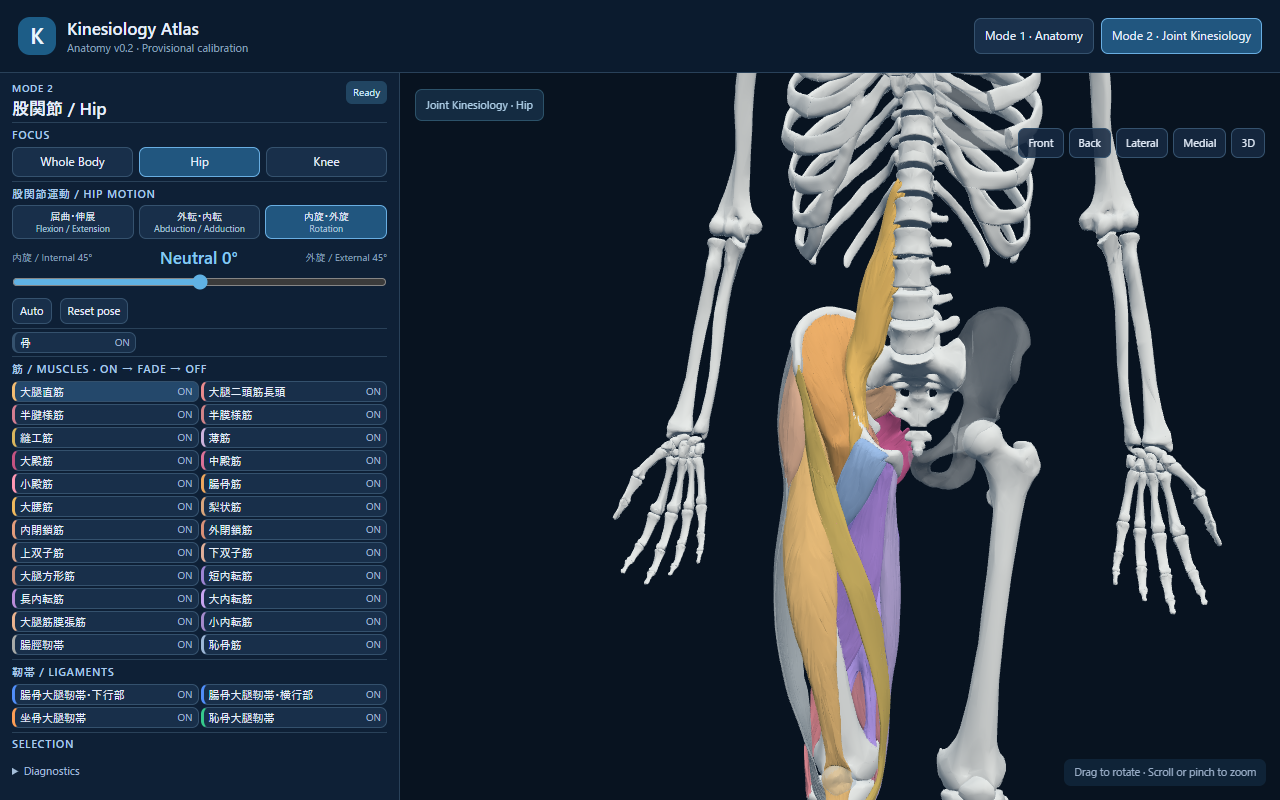
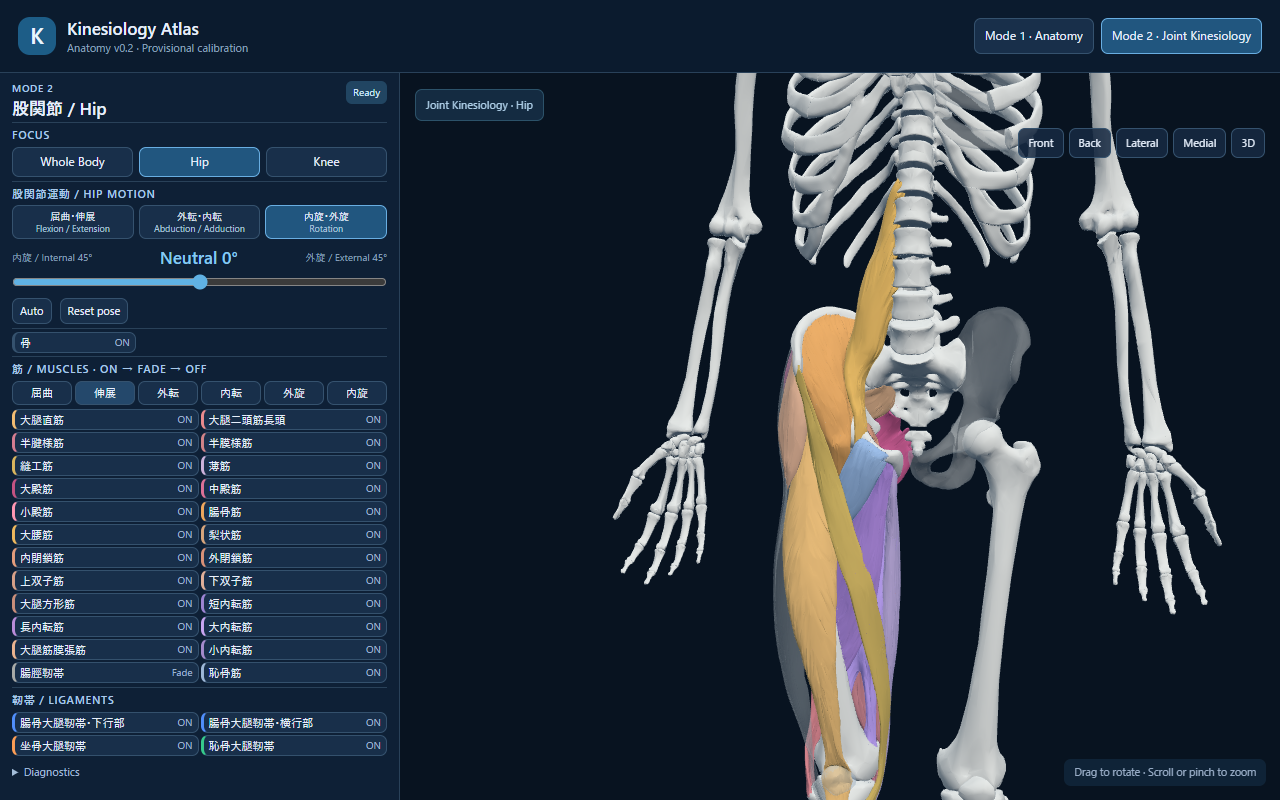
Correct muscle belly routing and restore ITB and action groups

Changed region(s): [[0.0, 0.4688, 0.3125, 0.9688], [0.5938, 0.4375, 0.7188, 1.0]]

diff --git a/src/tissue-follow.js b/src/tissue-follow.js
@@ -4,6 +4,9 @@ import {Vector3,Quaternion,Matrix4} from 'three';
 // It is a visual follower, not validated footprints, muscle length or strain.
 function tree(points,depth=0){if(!points.length)return null;const axis=depth%3;points.sort((a,b)=>a[axis]-b[axis]);const mid=points.length>>1;return {p:points[mid],axis,left:tree(points.slice(0,mid),depth+1),right:tree(points.slice(mid+1),depth+1)};}
 function distance2(node,p,best=Infinity){if(!node)return best;const d=p[node.axis]-node.p[node.axis],v=node.p;best=Math.min(best,(p[0]-v[0])**2+(p[1]-v[1])**2+(p[2]-v[2])**2);best=distance2(d<0?node.left:node.right,p,best);if(d*d<best)best=distance2(d<0?node.right:node.left,p,best);return best;}
+const clamp=x=>Math.max(0,Math.min(1,x));
+function closest(node,p,best={p:null,d2:Infinity}){if(!node)return best;const d2=p.reduce((s,v,i)=>s+(v-node.p[i])**2,0);if(d2<best.d2)best={p:node.p,d2};const delta=p[node.axis]-node.p[node.axis];best=closest(delta<0?node.left:node.right,p,best);if(delta*delta<best.d2)best=closest(delta<0?node.right:node.left,p,best);return best;}
+function smoothWeights(g,weights){const idx=g.index;if(!idx)return weights;let w=weights;for(let pass=0;pass<2;pass++){const sums=new Float32Array(w.length),counts=new Uint32Array(w.length);for(let k=0;k<idx.count;k+=3){const a=idx.getX(k),b=idx.getX(k+1),c=idx.getX(k+2);for(const [i,j,l] of [[a,b,c],[b,a,c],[c,a,b]]){sums[i]+=w[j]+w[l];counts[i]+=2;}}w=Float32Array.from(w,(v,i)=>counts[i]?.65*v+.35*sums[i]/counts[i]:v);}return w;}
 const smooth=x=>{const t=Math.max(0,Math.min(1,x));return t*t*(3-2*t);};
 export class TissueFollower{
  constructor(){this.entries=[];this.version=0;this.hip=new Quaternion();this.knee=new Quaternion();this.lastUpdate=-Infinity;this.translation=new Vector3();this.patellaRotation=new Quaternion();this.patellaTranslation=new Vector3();}
@@ -11,7 +14,7 @@ export class TissueFollower{
  prepare({tissues,getMeshes,hipCenter,kneeCenter}){
   this.h=hipCenter.clone();this.k=kneeCenter.clone();const v=new Vector3();
   const samples=name=>{const points=[];for(const mesh of getMeshes(name)){mesh.updateWorldMatrix(true,false);const a=mesh.geometry.attributes.position,step=Math.max(1,Math.floor(a.count/2500));for(let i=0;i<a.count;i+=step){v.fromBufferAttribute(a,i).applyMatrix4(mesh.matrixWorld);points.push(v.toArray());}}if(!points.length)throw Error('Missing binding bone '+name);return tree(points);};
-  const pelvis=samples('Hip bone.r'),femur=samples('Femur.r'),tibia=samples('Tibia.r');
+  const pelvis=samples('Hip bone.r'),femur=samples('Femur.r');
   for(const [name,,kind,joints] of tissues){if(kind!=='muscle'&&!(kind==='ligament'&&joints==='hip'))continue;
    for(const mesh of getMeshes(name)){
     mesh.geometry=mesh.geometry.clone();mesh.updateWorldMatrix(true,false);
@@ -19,23 +22,37 @@ export class TissueFollower{
     let min=Infinity,max=-Infinity;
     for(let i=0;i<a.count;i++){v.fromBufferAttribute(a,i).applyMatrix4(matrix);world.set(v.toArray(),i*3);min=Math.min(min,v.y);max=Math.max(max,v.y);}
     for(let i=0;i<a.count;i++){
-     const p=[world[3*i],world[3*i+1],world[3*i+2]],epsilon=1e-10;
-     const wp=joints==='knee'?0:1/(distance2(pelvis,p)+epsilon);
-     const wf=1/(distance2(femur,p)+epsilon),wt=joints==='hip'?0:1/(distance2(tibia,p)+epsilon),total=wp+wf+wt;
-     weights[2*i]=(wf+wt)/total;weights[2*i+1]=wt/total;
+     const p=[world[3*i],world[3*i+1],world[3*i+2]];
+     const dp=Math.sqrt(distance2(pelvis,p)),df=Math.sqrt(distance2(femur,p));
+     // Exact legacy Hip proximity field; do not distribute hip rotation along
+     // the entire length of a biarticular muscle (which makes a large arc).
+     weights[2*i]=joints==='knee'?1:smooth(dp/(dp+df+1e-9));
      const t=(max-p[1])/Math.max(max-min,1e-10);
-     if(joints==='knee')weights[2*i]=1;
-     if(/Rectus femoris|Vastus/.test(name))weights[2*i+1]=smooth((t-.65)/.30);
-     if(/biceps femoris|Semitendinosus|Semimembranosus|Sartorius|Gracilis|gastrocnemius|Popliteus/.test(name)){
-      weights[2*i+1]=smooth((t-.65)/.30);
-      if(joints==='hip knee')weights[2*i]=smooth((t-.12)/.58);
-     }
-     if(name==='Iliotibial tract.r'){weights[2*i]=smooth((t-.07)/.25);weights[2*i+1]=smooth((t-.82)/.16);}
+     const span=Math.max(this.h.y-this.k.y,1e-6);
+     // Only the periarticular region bends. Calf belly is carried by tibia,
+     // thigh belly by femur; the gastrocnemius origin remains femoral.
+     weights[2*i+1]=joints==='hip'?0:smooth((this.k.y+span*.04-p[1])/(span*.14));
+     if(/Rectus femoris|Vastus/.test(name))weights[2*i+1]=smooth((t-.78)/.20);
+     if(/Rectus femoris|Long head of biceps|Semitendinosus|Semimembranosus|Sartorius|Gracilis/.test(name))weights[2*i]=smooth((t-.02)/.20);
+     if(name==='Iliotibial tract.r'){weights[2*i]=smooth((t-.07)/.25);}
+     if(name==='Tensor fasciae latae.r')weights[2*i+1]=0;
+     if(name==='Calcaneal tendon.r'){weights[2*i]=1;weights[2*i+1]=1;}
      if(name==='Psoas major.r'){weights[2*i]=smooth(((max-p[1])/(max-min)-.34)/(.86-.34));weights[2*i+1]=0;}
     }
     this.entries.push({name,mesh,source,world,weights,inverse:new Matrix4().copy(matrix).invert(),version:-1,maxDisplacement:0});
    }
   }
+  // Longitudinal pins must use the whole named structure, never each mesh part.
+  const bounds=new Map();for(const e of this.entries){let b=bounds.get(e.name)||[Infinity,-Infinity];for(let i=1;i<e.world.length;i+=3){b[0]=Math.min(b[0],e.world[i]);b[1]=Math.max(b[1],e.world[i]);}bounds.set(e.name,b);}
+  for(const e of this.entries){const [lo,hi]=bounds.get(e.name);for(let i=0;i<e.weights.length/2;i++){const y=e.world[3*i+1],t=(hi-y)/Math.max(hi-lo,1e-10);if(/Rectus femoris|Long head of biceps|Semitendinosus|Semimembranosus|Sartorius|Gracilis/.test(e.name))e.weights[2*i]=smooth((t-.02)/.20);if(e.name==='Psoas major.r')e.weights[2*i]=smooth((t-.34)/.52);if(e.name==='Iliotibial tract.r')e.weights[2*i]=smooth((t-.07)/.25);if(/Rectus femoris|Vastus/.test(e.name))e.weights[2*i+1]=smooth((t-.78)/.20);}}
+  // Match the legacy topological smoothing, retaining rigid end regions.
+  for(const e of this.entries){for(const channel of [0,1]){const before=Float32Array.from({length:e.weights.length/2},(_,i)=>e.weights[2*i+channel]);const after=smoothWeights(e.mesh.geometry,before);for(let i=0;i<after.length;i++)e.weights[2*i+channel]=before[i]===0||before[i]===1?before[i]:after[i];}}
+  const tract=this.entries.filter(e=>e.name==='Iliotibial tract.r');
+  if(tract.length){const pts=[];let lo=Infinity,hi=-Infinity;for(const e of tract)for(let i=0;i<e.weights.length/2;i++){const p=[...e.world.slice(i*3,i*3+3)];lo=Math.min(lo,p[1]);hi=Math.max(hi,p[1]);if(i%Math.max(1,Math.ceil(e.weights.length/2/2300))===0){p.weight=e.weights[2*i];pts.push(p);}}
+   const field=tree(pts),span=hi-lo;
+   for(const e of this.entries.filter(e=>['Tensor fasciae latae.r','Gluteus maximus muscle.r'].includes(e.name)))for(let i=0;i<e.weights.length/2;i++){const p=[...e.world.slice(i*3,i*3+3)],y=(hi-p[1])/span;if(y<.10||y>.46)continue;const nearest=closest(field,p),proximity=clamp((.08*span-Math.sqrt(nearest.d2))/(.06*span)),insertion=clamp((y-.10)/.13)*clamp((.46-y)/.15),blend=.8*proximity*insertion;e.weights[2*i]=e.weights[2*i]*(1-blend)+nearest.p.weight*blend;}
+  }
+
  }
  update(hip,knee,now=performance.now(),options={}){
   const translation=options.translation||new Vector3(),patellaRotation=options.patellaRotation||knee,patellaTranslation=options.patellaTranslation||translation;
@@ -56,5 +73,6 @@ export class TissueFollower{
    attr.needsUpdate=true;e.mesh.geometry.computeVertexNormals();e.mesh.geometry.computeBoundingSphere();e.version=this.version;
   }
  }
+ audit(){const v=new Vector3();return this.entries.map(e=>{const matrix=e.inverse.clone().invert(),a=e.mesh.geometry.attributes.position;const step=Math.max(1,Math.ceil(a.count/300));const points=[];for(let i=0;i<a.count;i+=step)points.push({rest:[...e.world.slice(i*3,i*3+3)],position:v.fromBufferAttribute(a,i).applyMatrix4(matrix).toArray(),hip:e.weights[i*2],knee:e.weights[i*2+1]});return {name:e.name,points};});}
  snapshot(){return this.entries.map(e=>({name:e.name,vertices:e.source.length/3,visible:e.mesh.visible,maxDisplacement:e.maxDisplacement}));}
 }

diff --git a/src/main.js b/src/main.js
@@ -6,6 +6,7 @@ import {KNEE,KNEE_REVIEW} from '../config/knee.js';
 import {teachingLigamentTendency} from './kinematics.js';
 import {muscleColors,hipLigamentColors} from './palette.js';
 import {hipPose,hipRanges,hipMuscleAction,hipLigamentScore} from './hip-motion.js';
+import {muscleGroups} from './muscle-groups.js';
 import {kneePose} from './joint-motion.js';
 import {ligamentEngagement,ligamentAppearance} from './ligament-presentation.js';
 import {TissueFollower} from './tissue-follow.js';
@@ -47,7 +48,7 @@ let renderedMeniscusActive=0;
 const renderedAngles={flex:0,rot:0,valgus:0};let renderedScrew=0;
 let mode='anatomy',focus='body',motion='flex',motionValue=90,activeSelection=null;
 const kneeValues={flex:90,rot:0,stress:0},hipValues={flex:0,abd:0,rot:0};
-let motionValues=kneeValues;const savedMotion={hip:'flex',knee:'flex'};
+let motionValues=kneeValues;const savedMotion={hip:'flex',knee:'flex'};const selectedMuscleGroup={hip:null,knee:null};
 let playing=false,playDirection=1,modeTransition=false;
 let hipWorldPoint=null,kneeWorldPoint=null,kneeModelReady=false,sideSign=1,fullBox=null,kneeScale=1,modelLoaded=false,patellaBasePosition=new THREE.Vector3();
 let landmarkReview=null;
@@ -105,7 +106,7 @@ function updateVisibility(){
  $('patellaVisibility').dataset.state=patellaState;$('patellaVisibility').querySelector('small').textContent=patellaState==='fade'?'Fade':patellaState.toUpperCase();
  if(activeSelection)highlightSelected(activeSelection);
 }
-function cycleTissue(name){tissueStates.set(name,nextVisibility(tissueStates.get(name)));updateVisibility();if(activeSelection)selectStructure(activeSelection,{showFloating:!$('floatingSelection').hidden});}
+function cycleTissue(name){if(category.get(name)==='muscle'){selectedMuscleGroup[focus]=null;for(const b of $('muscleGroups').children)b.classList.remove('selected');}tissueStates.set(name,nextVisibility(tissueStates.get(name)));updateVisibility();if(activeSelection)selectStructure(activeSelection,{showFloating:!$('floatingSelection').hidden});}
 function cyclePatella(){patellaState=nextVisibility(focus==='body'?bodyStates.get('Patella.r')||'on':patellaState);bodyStates.set('Patella.r',patellaState);updateVisibility();if(activeSelection)selectStructure(activeSelection,{showFloating:!$('floatingSelection').hidden});}
 $('patellaVisibility').addEventListener('click',cyclePatella);
 $('boneVisibility').addEventListener('click',()=>{boneState=nextVisibility(boneState);updateVisibility();});
@@ -255,9 +256,10 @@ function frameFocus(f=focus){if(!modelLoaded)return;
  if(f==='knee'&&kneeWorldPoint){frame(kneeModelReady?kneeObservation():kneeWorldPoint,kneeScale*3.1);return;}
  if(f==='hip'&&hipWorldPoint){frame(hipWorldPoint,kneeScale*4.2);return;}
 }
-function setFocus(f){if(focus!=='body')savedMotion[focus]=motion;focus=f;motionValues=f==='hip'?hipValues:kneeValues;renderedMeniscusActive=mode==='kinesiology'&&f==='knee'?1:0;activeSelection=null;$('selectedStructure').textContent='Click a structure';$('floatingSelection').hidden=true;
+function setFocus(f){if(f!=='body')selectedMuscleGroup[f]=null;if(focus!=='body')savedMotion[focus]=motion;focus=f;motionValues=f==='hip'?hipValues:kneeValues;renderedMeniscusActive=mode==='kinesiology'&&f==='knee'?1:0;activeSelection=null;$('selectedStructure').textContent='Click a structure';$('floatingSelection').hidden=true;
  for(const el of document.querySelectorAll('[data-focus]'))el.classList.toggle('selected',el.dataset.focus===f);
  for(const [name,state] of focusStates(f))tissueStates.set(name,boneReview&&f==='knee'?(category.get(name)==='meniscus'||ligamentReview&&name in kneeLigamentBones?'on':'off'):state);
+ if(f!=='body'&&!(boneReview&&f==='knee'))tissueStates.set('Iliotibial tract.r','fade');
  if(f==='body'){boneState='on';patellaState='fade';$('axisToggle').checked=false;bodyStates.clear();for(const name of registered.keys())bodyStates.set(name,'on');Object.assign(bulkStates,{bone:'on',connective:'on',muscle:'on'});document.querySelectorAll('[data-body-details]').forEach(el=>el.open=false);Object.assign(kneeValues,{flex:90,rot:0,stress:0});Object.assign(hipValues,{flex:0,abd:0,rot:0});savedMotion.hip=savedMotion.knee='flex';setMotion('flex');}
  updateModeUI();setMotion(f==='body'?'flex':savedMotion[f]);updatePose();updateVisibility();
  // Focus is an intentional framing operation; frame the target pose rather than an intermediate tween.
@@ -270,6 +272,8 @@ function setMotion(m){setPlaying(false);playDirection=1;motion=m;motionValue=mot
  const sl=$('motionSlider');const ranges={flex:[...KNEE.flexionRange,90,'伸展 / Extension 0°',`屈曲 / Flexion ${KNEE.flexionRange[1]}°`],rot:[-15,30,0,'内旋 / Internal 15°','外旋 / External 30°'],stress:[-3,3,0,'内反 / Varus 3°','外反 / Valgus 3°']};
  const v=(focus==='hip'?hipRanges:ranges)[m];sl.min=v[0];sl.max=v[1];sl.step='.1';sl.value=motionValue;$('negativeLabel').textContent=v[3];$('positiveLabel').textContent=v[4];updatePose()}
 function updateModeUI(){
+ $('muscleGroups').replaceChildren();for(const [key,group] of Object.entries(muscleGroups[focus]||{})){const b=document.createElement('button');b.type='button';b.dataset.muscleGroup=key;b.classList.toggle('selected',selectedMuscleGroup[focus]===key);b.textContent=group.label;b.title=({flex:'Flexion',ext:'Extension',ir:'Internal rotation',er:'External rotation',abd:'Abduction',add:'Adduction'})[key];b.addEventListener('click',()=>{selectedMuscleGroup[focus]=key;for(const [name,,kind] of tissues)if(kind==='muscle')tissueStates.set(name,relevant(name,focus)&&group.names.includes(name)?'on':'off');if(focus==='hip')tissueStates.set('Iliotibial tract.r','fade');updateVisibility();for(const button of $('muscleGroups').children)button.classList.toggle('selected',button===b);if(activeSelection)selectStructure(activeSelection,{showFloating:!$('floatingSelection').hidden});});$('muscleGroups').append(b);}
+
  const kinds=focus==='hip'?[['flex','屈曲・伸展','Flexion / Extension'],['abd','外転・内転','Abduction / Adduction'],['rot','内旋・外旋','Rotation']]:[['flex','屈曲・伸展','Flexion / Extension'],['rot','内旋・外旋','Rotation'],['stress','内反・外反','Varus / Valgus']];
  document.querySelectorAll('[data-motion]').forEach((b,i)=>{b.dataset.motion=kinds[i][0];b.querySelector('span').textContent=kinds[i][1];b.querySelector('small').textContent=kinds[i][2];b.classList.toggle('selected',b.dataset.motion===motion);});
  $('motionSection').querySelector('.smallhead').textContent=focus==='hip'?'股関節運動 / Hip motion':'膝関節運動 / Knee motion';
@@ -458,3 +462,5 @@ function updateMusclePresentation(now){
  if(activeSelection===name&&state!=='off'){mat.emissive.lerp(new THREE.Color(0x2e7baa),.12);mat.emissiveIntensity+=.065;}
  }
 }
+
+if(new URLSearchParams(location.search).has('qa'))window.atlasMuscleGeometryQA=()=>({hipCenter:hipWorldPoint.toArray(),kneeCenter:kneeWorldPoint.toArray(),entries:tissueFollower.audit()});

diff --git a/tests/ui/muscle-routing.spec.js b/tests/ui/muscle-routing.spec.js
@@ -1,0 +1,27 @@
+import {test,expect} from '@playwright/test';
+import {Vector3,Quaternion} from 'three';
+import {mkdirSync,writeFileSync} from 'node:fs';
+test('muscle bellies follow their bone frames, Achilles continuity, action groups and legacy ITB',async({page})=>{
+ const errors=[];page.on('pageerror',e=>errors.push(e.message));await page.goto('http://127.0.0.1:8080/?review=muscles&axis=condyle&qa');await expect(page.locator('#modelStatus')).toHaveText('Ready');
+ const snap=()=>page.evaluate(()=>atlasQA());const input=async v=>page.locator('#motionSlider').evaluate((el,v)=>{el.value=v;el.dispatchEvent(new Event('input',{bubbles:true}));},v);
+ mkdirSync('docs/screenshots/muscle-routing',{recursive:true});
+ const records=[];
+ for(const angle of [0,60,90,120]){await input(angle);await expect.poll(async()=>Math.abs((await snap()).renderedAngles.flex-angle)).toBeLessThan(.01);
+ const q=await snap(),audit=await page.evaluate(()=>atlasMuscleGeometryQA()),h=new Vector3(...audit.hipCenter),k=new Vector3(...audit.kneeCenter),hip=new Quaternion(...q.hip),knee=new Quaternion(...q.knee),translation=new Vector3(...q.kneeTranslation),span=h.y-k.y;
+ const errorsByMuscle={};
+ for(const e of audit.entries){if(!/gastrocnemius|Calcaneal tendon|Semitendinosus|Semimembranosus|biceps femoris|Sartorius|Gracilis/.test(e.name))continue;const pts=e.points.filter(p=>/gastrocnemius|Calcaneal/.test(e.name)?p.rest[1]<k.y-span*.15:p.rest[1]<h.y-span*.45&&p.rest[1]>k.y+span*.15);if(!pts.length)continue;const delta=Math.max(...pts.map(p=>{const v=new Vector3(...p.rest);if(/gastrocnemius|Calcaneal/.test(e.name))v.sub(k).applyQuaternion(knee).add(k).add(translation);v.sub(h).applyQuaternion(hip).add(h);return v.distanceTo(new Vector3(...p.position));}));errorsByMuscle[e.name]=delta;expect(delta,e.name+' belly at '+angle).toBeLessThan(span*.015);}
+ records.push({angle,errorsByMuscle});await page.locator('[data-view="lateral"]').click();await page.screenshot({path:`docs/screenshots/muscle-routing/knee-${angle}.png`});}
+ const itb=page.locator('[data-tissue="Iliotibial tract.r"]');await expect(itb).toHaveAttribute('data-state','fade');expect((await snap()).tissueMeshes.find(t=>t.name==='Calcaneal tendon.r').visible).toBeTruthy();
+ for(const group of ['flex','ext','ir','er']){await page.locator(`[data-muscle-group="${group}"]`).click();const q=await snap();expect(q.states['Rectus femoris muscle.r']).toBe(group==='ext'?'on':'off');expect(q.states['Long head of biceps femoris.r']).toBe(['flex','er'].includes(group)?'on':'off');expect(q.states['Calcaneal tendon.r']).toBe(group==='flex'?'on':'off');}
+ await page.locator('[data-focus="hip"]').click();await expect(itb).toHaveAttribute('data-state','fade');await expect(page.locator('[data-muscle-group]')).toHaveCount(6);
+ for(const angle of [0,90,110]){await input(angle);await expect.poll(async()=>Math.abs((await snap()).hip[0]+Math.sin(angle*Math.PI/360))).toBeLessThan(.001);await page.locator('[data-view="lateral"]').click();await page.screenshot({path:`docs/screenshots/muscle-routing/hip-${angle}.png`});}
+ await page.locator('[data-muscle-group="flex"]').click();await page.locator('[data-mode="anatomy"]').click();await page.locator('[data-mode="kinesiology"]').click();await expect(page.locator('[data-muscle-group="flex"]')).toHaveClass(/selected/);
+ await page.setViewportSize({width:1280,height:800});expect(await page.locator('#sidebar').evaluate(el=>el.scrollHeight-el.clientHeight)).toBeLessThanOrEqual(1);
+ // Inspect the specifically reported Hip muscles without overlying surfaces.
+ await page.setViewportSize({width:1440,height:1000});await input(90);await expect.poll(async()=>Math.abs((await snap()).hip[0]+Math.SQRT1_2)).toBeLessThan(.001);
+ await page.locator('[data-tissue]').evaluateAll(rows=>{const keep=new Set(['Psoas major.r','Iliacus muscle.r','Sartorius muscle.r']);for(const row of rows){if(row.hidden||row.disabled||!row.closest('#muscleList'))continue;const target=keep.has(row.dataset.tissue)?'on':'off';while(row.dataset.state!==target)row.click();}});
+ await page.locator('[data-view="front"]').click();await page.locator('#boneVisibility').click();await page.screenshot({path:'docs/screenshots/muscle-routing/hip-90-iliopsoas-sartorius.png'});await page.locator('[data-view="lateral"]').click();await page.screenshot({path:'docs/screenshots/muscle-routing/hip-90-iliopsoas-sartorius-lateral.png'});
+ await page.locator('[data-tissue]').evaluateAll(rows=>{const keep=new Set(['Iliotibial tract.r','Tensor fasciae latae.r','Gluteus maximus muscle.r']);for(const row of rows){if(row.hidden||row.disabled||!row.closest('#muscleList'))continue;const target=keep.has(row.dataset.tissue)?(row.dataset.tissue==='Iliotibial tract.r'?'fade':'on'):'off';while(row.dataset.state!==target)row.click();}});
+ await page.locator('[data-view="lateral"]').click();await page.screenshot({path:'docs/screenshots/muscle-routing/hip-90-itb.png'});
+ writeFileSync('docs/muscle-belly-frame-audit.json',JSON.stringify(records,null,2));expect(errors).toEqual([]);
+});

diff --git a/src/hip-motion.js b/src/hip-motion.js
@@ -39,3 +39,13 @@ export const hipActions=Object.fromEntries(Object.entries(names).map(([key,name]
 export function hipPose(kind,value,side){const p={flex:0,abd:0,rot:0};p[kind]=value;return new Quaternion().setFromAxisAngle(new Vector3(1,0,0),-p.flex*Math.PI/180).multiply(new Quaternion().setFromAxisAngle(new Vector3(0,0,1),-side*p.abd*Math.PI/180)).multiply(new Quaternion().setFromAxisAngle(new Vector3(0,1,0),-side*p.rot*Math.PI/180));}
 export function hipMuscleAction(name,kind,value){const limit=kind==='flex'?(value<0?20:80):kind==='abd'?(value<0?25:45):45;return Math.max(-1,Math.min(1,(hipActions[name]?.[kind]||0)*Math.max(-1,Math.min(1,value/limit))));}
 export function hipLigamentScore(name,kind,value){const table={'Transverse part of iliofemoral ligament.r':{ext:1,abd:0,add:2,er:1,ir:0},'Descending part of iliofemoral ligament.r':{ext:2,abd:1,add:1,er:1,ir:0},'Pubofemoral ligament.r':{ext:1,abd:2,add:0,er:1,ir:0},'Ischiofemoral ligament.r':{ext:1,abd:1,add:0,er:0,ir:1}};const dir=kind==='flex'?'ext':kind==='abd'?(value<0?'add':'abd'):(value<0?'ir':'er');if(kind==='flex'&&value>=0)return 0;const limit={ext:20,abd:45,add:25,er:45,ir:45}[dir];return (table[name]?.[dir]||0)*Math.min(1,Math.abs(value)/limit)/2;}
+
+const legacyHipGroups={
+ flex:{label:'屈曲筋群',primary:['iliacus','psoas','rectus','sartorius','tfl','pectineus','addLong'],secondary:['glutMed','glutMin'],note:'中・小殿筋は前部線維が関与（全筋メッシュによる代用）'},
+ ext:{label:'伸展筋群',primary:['glutMax','bicepsLong','semiten','semimem'],secondary:['glutMed','glutMin','adductor'],note:'中・小殿筋は後部線維、大内転筋は後部が関与（全筋メッシュによる代用）'},
+ abd:{label:'外転筋群',primary:['glutMed','glutMin','tfl'],secondary:['glutMax','sartorius','piriformis'],note:'大殿筋・梨状筋の作用は部位や肢位に依存'},
+ add:{label:'内転筋群',primary:['adductor','addMin','addLong','addBrevis','gracilis','pectineus'],secondary:['glutMax','semiten'],note:'小内転筋の独立モデルは収録状況を確認。大殿筋・半腱様筋は補助'},
+ er:{label:'外旋筋群',primary:['glutMax','piriformis','quadratus','obturatorIn','obturatorEx','gemSup','gemInf','iliacus','psoas','sartorius'],secondary:['glutMed','glutMin'],note:'中・小殿筋は後部線維が関与（全筋メッシュによる代用）'},
+ ir:{label:'内旋筋群',primary:['glutMed','glutMin','tfl'],secondary:[],note:'中・小殿筋は主に前部線維（全筋メッシュによる代用）'}
+};
+export const hipMuscleGroups=Object.fromEntries(Object.entries(legacyHipGroups).map(([key,g])=>[key,{label:g.label.replace('筋群',''),names:[...g.primary,...g.secondary].map(k=>names[k])}]));

diff --git a/index.html b/index.html
@@ -18,7 +18,7 @@
   <div><button data-bulk="connective"><span>靭帯・軟骨</span><small>ON</small></button><details data-body-details="connective"><summary>Individual</summary><div class="tissueList" id="bodyConnectiveList"></div></details></div>
   <div><button data-bulk="muscle"><span>筋肉</span><small>ON</small></button><details data-body-details="muscle"><summary>Individual</summary><div class="tissueList" id="bodyMuscleList"></div></details></div>
  </div></div>
- <div class="group jointDisplay" hidden><label class="smallhead">筋 / Muscles · ON → Fade → OFF</label><div id="muscleList" class="tissueList"></div></div>
+ <div class="group jointDisplay" hidden><label class="smallhead">筋 / Muscles · ON → Fade → OFF</label><div id="muscleGroups" class="muscleGroups"></div><div id="muscleList" class="tissueList"></div></div>
  <div class="group jointDisplay" hidden><label class="smallhead">靭帯・半月板 / Ligaments &amp; menisci</label><div id="ligamentList" class="tissueList"></div></div>
  <details class="group jointDisplay" hidden><summary class="smallhead">Selection</summary><div id="selectedStructure" class="selection">Click a structure</div></details>
  <div class="smallprint">Centers &amp; axes: provisional · Z-Anatomy</div>

diff --git a/src/muscle-groups.js b/src/muscle-groups.js
@@ -1,0 +1,3 @@
+import {hipMuscleGroups} from './hip-motion.js';
+const knee={flex:{label:'屈曲',names:['Long head of biceps femoris.r','Short head of biceps femoris.r','Semitendinosus muscle.r','Semimembranosus muscle.r','Sartorius muscle.r','Gracilis muscle.r','Popliteus muscle.r','Medial head of gastrocnemius.r','Lateral head of gastrocnemius.r','Calcaneal tendon.r']},ext:{label:'伸展',names:['Rectus femoris muscle.r','Vastus medialis muscle.r','Vastus lateralis muscle.r','Vastus intermedius muscle.r']},ir:{label:'内旋',names:['Semitendinosus muscle.r','Semimembranosus muscle.r','Sartorius muscle.r','Gracilis muscle.r','Popliteus muscle.r']},er:{label:'外旋',names:['Long head of biceps femoris.r','Short head of biceps femoris.r']}};
+export const muscleGroups={hip:hipMuscleGroups,knee};

diff --git a/src/palette.js b/src/palette.js
@@ -1,6 +1,7 @@
 // Hip identity colors preserved from the local legacy/hip reference.
 // Additional knee muscles receive stable, distinct identity colors.
 export const muscleColors=Object.freeze({
+ 'Calcaneal tendon.r':0xd8cbb2,
  'Tensor fasciae latae.r':0xeab38f,'(Adductor minimus).r':0xa48acb,'Iliotibial tract.r':0xa7aaa8,
  'Gluteus maximus muscle.r':0xc45382,'Gluteus medius muscle.r':0xdc7197,'Gluteus minimus muscle.r':0xff97b3,
  'Iliacus muscle.r':0xeda75d,'Psoas major.r':0xeeb85d,'Rectus femoris muscle.r':0xf2bc72,'Sartorius muscle.r':0xd9b55d,

diff --git a/src/style.css b/src/style.css
@@ -35,3 +35,6 @@
  .sidebar[data-joint]:not([data-joint=body]) .tissueList button{min-height:21px;padding:1px 5px}
  .sidebar[data-joint]:not([data-joint=body]) .diagnostics{margin-top:4px}
 }
+
+.muscleGroups{display:grid;grid-template-columns:repeat(4,minmax(0,1fr));gap:3px;margin-bottom:4px}.muscleGroups button{font-size:11px;padding:3px 2px}.sidebar[data-joint=hip] .muscleGroups{grid-template-columns:repeat(6,minmax(0,1fr))}
+#sidebar details:has(>#selectedStructure){display:none}

diff --git a/src/anatomy.js b/src/anatomy.js
@@ -11,6 +11,7 @@ export const tissues = [
  ['Sartorius muscle.r','縫工筋','muscle','hip knee'],
  ['Gracilis muscle.r','薄筋','muscle','hip knee'],
  ['Popliteus muscle.r','膝窩筋','muscle','knee'],
+ ['Calcaneal tendon.r','アキレス腱','muscle','knee'],
  ['Medial head of gastrocnemius.r','腓腹筋内側頭','muscle','knee'],
  ['Lateral head of gastrocnemius.r','腓腹筋外側頭','muscle','knee'],
  ['Gluteus maximus muscle.r','大殿筋','muscle','hip'],

diff --git a/docs/MUSCLE_ROUTING_CORRECTION.md b/docs/MUSCLE_ROUTING_CORRECTION.md
@@ -1,0 +1,30 @@
+# 筋走行の修正・筋作用グループ — 2026-11-02
+
+前回の「Hip復元」は、操作と端点の確認に偏り、筋腹の走行・腸脛靭帯の連動まで引き継げていませんでした。この記録は `SHARED_MUSCLES_AND_HIP.md` の初回実装に対する修正です。
+
+## 修正内容
+
+- 大腿筋のほぼ全長に股関節回転を分配する処理と、腓腹筋のほぼ全長に膝回転を分配する処理を撤去。大腿筋腹は大腿骨、下腿筋腹は脛骨に追従し、関節周囲の移行部で変形します。膝の並進とスクリューホームも同じ骨変換として反映します。
+- 複数メッシュに分かれた筋の長軸比率は、部品ごとではなく名称で集約した全体から計算します。部品の境界で違う変形率が適用される問題を防ぎます。
+- 既存Hip版から、骨表面距離比のsmoothstep、2回のトポロジー平滑化、大腰筋の上部固定域、腸脛靭帯の上部固定域、大腿筋膜張筋・大殿筋と腸脛靭帯の挿入部の変形場同期を移植。腸脛靭帯のFocus時の初期表示はFade。個別操作後の状態はMode切替で維持します。
+- `Calcaneal tendon.r`（アキレス腱）の収録を実GLBで確認し、膝の関連組織へ追加。下腿と同じ骨変換で描画し、腓腹筋の下端で途切れないようにしました。筋ではなく腱であり、収縮エフェクトは与えません。
+- 膝は屈曲・伸展・内旋・外旋の4筋群を1クリックでまとめて表示。屈曲群ではアキレス腱も表示します。股関節は既存Hipの6筋群（屈曲・伸展・外転・内転・外旋・内旋）を復元。グループ操作は肢位・カメラ・Modeを変更しません。
+- 個別筋の表示は2列を維持。固定側の重複したSelection欄は表示せず、3Dフロートと個別リストの操作を使います。
+
+## 検証
+
+- ロジック28件：収録名照合、腓腹筋の大腿骨側起始と脛骨側筋腹の異なる追従、アキレス腱との接続、元座標の保持、Anatomy復帰など。
+- 実GLBで膝0・60・90・120°の大腿筋腹と下腿筋腹を独立した骨フレームの変換と照合。端点のみの検証ではありません。座標記録は `muscle-belly-frame-audit.json`。
+- 側面画像：`screenshots/muscle-routing/`（膝0/60/90/120°、Hip0/90/110°）。
+- 筋群の一括ON/OFF、腸脛靭帯の初期Fade、グループ選択のMode間保持、1280×800のパネルも確認。
+- 既存膝運動・十字靭帯・靭帯濃淡への回帰確認の最終結果を追記します。
+
+筋の巻き付き、接触、体積保存、付着面の解剖学的最終FIXや筋力計算を完了したという意味ではありません。今回の検証は、指摘された全長の弓状変形・腓腹筋の飛び出しを防ぎ、骨に対する筋腹の追従を確かめるものです。
+
+`hip-kinesiology` リポジトリと公開サイト、参照用 `legacy/hip/index.html` は変更していません。
+
+追記：構文チェック、ロジック28/28、関連実GLB UI6/6がPASS。UI6件はAtlas共通操作、膝運動、筋腹の骨フレーム照合・筋群・腸脛靭帯、Hip/Knee共有、十字靭帯前後関係、靭帯濃淡。追加の筋単独画像も保存します。
+
+筋群の照合資料：[OpenStax Anatomy and Physiology 2e, 11.6](https://openstax.org/books/anatomy-and-physiology-2e/pages/11-6-appendicular-muscles-of-the-pelvic-girdle-and-lower-limbs)。大腿四頭筋・ハムストリングスの作用、腓腹筋の大腿骨顆部起始などを照合。これは変形モデルの定量検証資料ではありません。Hipの群構成は既存参照版の主作用・補助作用の一覧を引き継いでいます。
+
+腸腰筋・縫工筋の単独像（前面・側面）と、腸脛靭帯/TFL/大殿筋の単独像も確認し保存。画像追加後の筋走行UIテスト1/1 PASS。筋腹照合は中央域を対象にした骨フレーム追従の検査であり、源データの全付着頂点や全姿勢での骨表面との非貫通を保証するものではありません。
